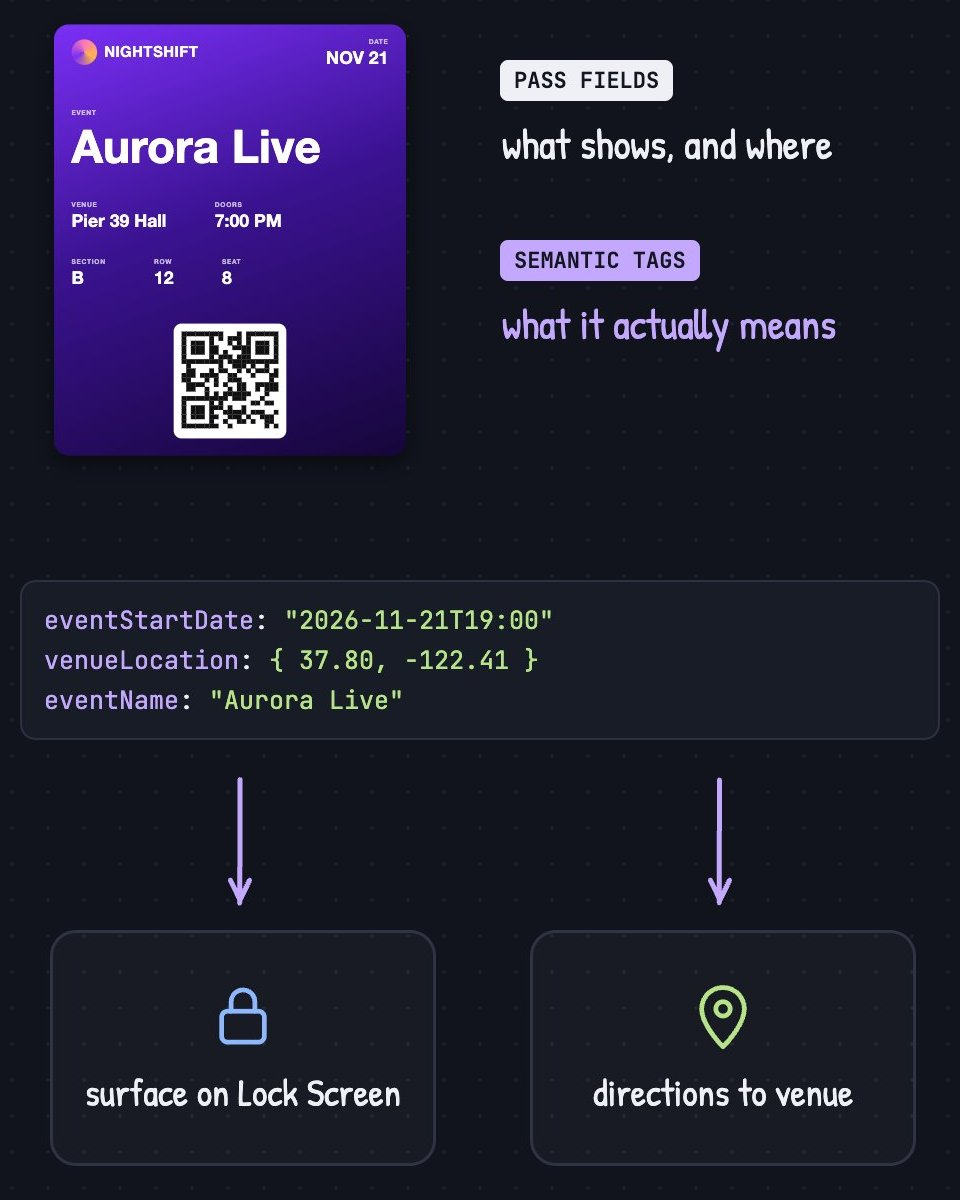
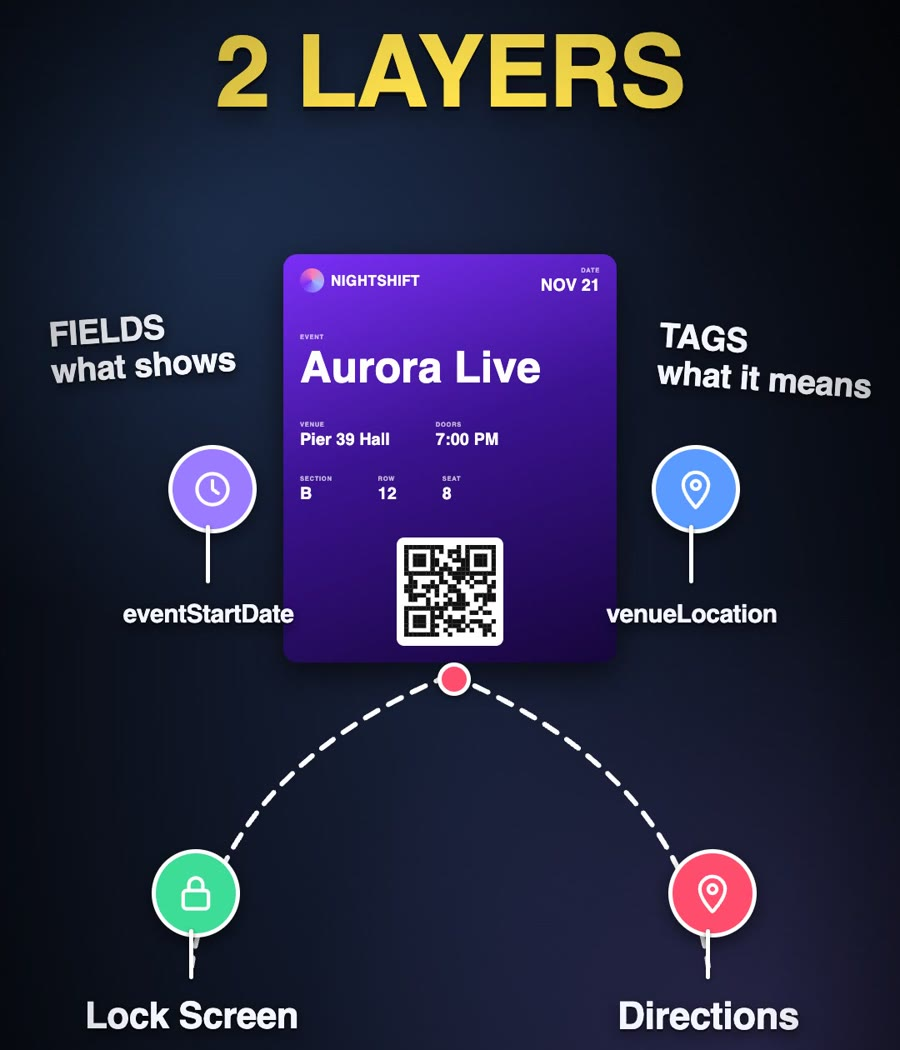
Update Wallet Notes 01 images from the new video and match widget background

diff --git a/assets/widgets/wallet-pass.css b/assets/widgets/wallet-pass.css
@@ -7,10 +7,11 @@
   margin: 2rem 0;
   padding: 1.75rem 1rem 1.25rem;
   border-radius: 16px;
-  background-color: var(--wp-bg);
-  background-image: radial-gradient(rgba(180,195,230,.08) 1.2px, transparent 1.3px);
-  background-size: 22px 22px;
-  background-position: 11px 11px;
+  background-color: #05070c;
+  background-image:
+    radial-gradient(60% 45% at 30% 20%, rgba(91,155,255,.16), transparent 70%),
+    radial-gradient(55% 45% at 80% 85%, rgba(155,123,255,.14), transparent 70%),
+    linear-gradient(180deg, #18213a 0%, #05070c 100%);
   color: var(--wp-ink);
   font-family: -apple-system, BlinkMacSystemFont, "SF Pro Text", system-ui, sans-serif;
   -webkit-tap-highlight-color: transparent;

diff --git a/assets/widgets/wallet-pass.js b/assets/widgets/wallet-pass.js
@@ -43,7 +43,7 @@
     {
       id: 'event', name: 'Aurora Live event ticket',
       bg: 'linear-gradient(160deg,#7b2ff7 0%,#3a1290 45%,#16063a 100%)', mark: 'conic-gradient(#ff7ab6,#9db8ff,#7b2ff7,#ff7ab6)',
-      logo: 'Nightshift', header: ['Date', 'Nov 21'],
+      logo: 'Nightshift', header: ['Date', 'NOV 21'],
       primary: ['Event', 'Aurora Live'],
       secondary: [['Venue', 'Pier 39 Hall'], ['Doors', '7:00 PM']],
       auxiliary: [['Section', 'B'], ['Row', '12'], ['Seat', '8']],

diff --git a/_posts/2026-11-11-wallet-notes-01-designing-a-pass.md b/_posts/2026-11-11-wallet-notes-01-designing-a-pass.md
@@ -29,16 +29,22 @@ One thing I found interesting was the difference between pass fields and semanti
 
 There's also more to think about after someone adds a pass. Details may change, the pass may become relevant at a particular time or place, and eventually it expires. A boarding pass, for example, needs to stay useful when the gate changes.
 
-<div class="frames single">
-  <img src="{{ img }}s22.jpg" alt="Adding a pass, surfacing it on the Lock Screen, and a gate change update">
+<div class="frames two">
+  <img src="{{ img }}s20.jpg" alt="Added: one tap to add, related passes added as a group, and no asking again after a decline">
+  <img src="{{ img }}s21.jpg" alt="Relevant: the pass appears on the Lock Screen at the right time and place">
+  <img src="{{ img }}s22.jpg" alt="Updated: a gate change from B12 to C4, for time-critical info only, never marketing">
+  <img src="{{ img }}s23.jpg" alt="Expired: an expiration date hides old passes, and removing a pass asks first">
 </div>
 
 ## Design rules
 
 The design guidelines were straightforward: keep the front simple, make the text easy to read, and avoid putting text inside images. Wording also needs to work across devices, including Apple Watch.
 
-<div class="frames single">
-  <img src="{{ img }}s27.jpg" alt="Good and bad examples: a clean front, enough contrast, and no text inside images">
+<div class="frames two">
+  <img src="{{ img }}s25.jpg" alt="Clean: a front crowded with text versus a simple front">
+  <img src="{{ img }}s26.jpg" alt="Contrast: low-contrast text versus readable white text">
+  <img src="{{ img }}s27.jpg" alt="No text in images: a SALE image versus an image with a separate text field">
+  <img src="{{ img }}s28.jpg" alt="Every device: 'Slide to view' works on iPhone but not on Apple Watch">
 </div>
 
 ## What's next
